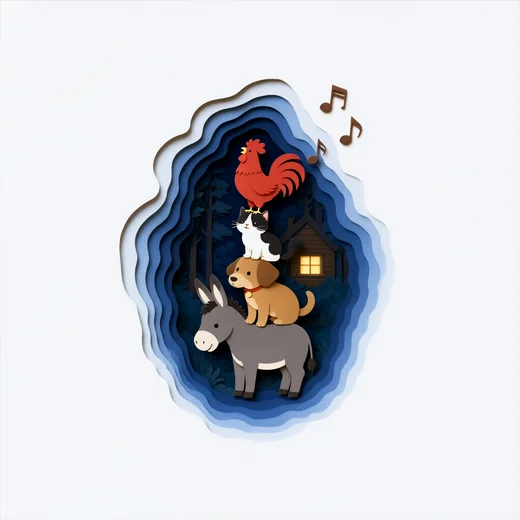
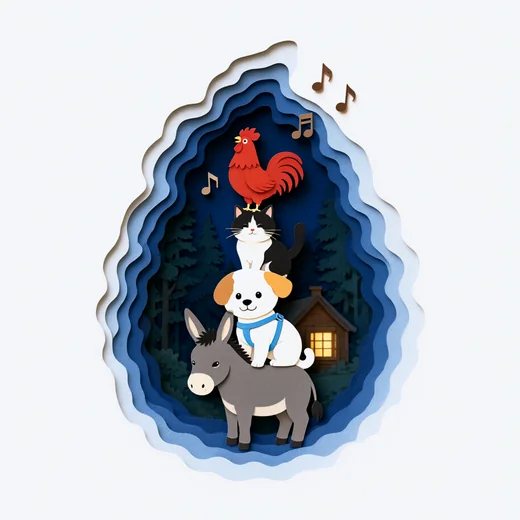
브레멘·토끼 달리기: 새 강아지(흰 털·파란 조끼) 그림 적용, 브레멘 표지 교체
Claude-Session: https://claude.ai/code/session_01TGgx6k6hUQMHacUcyCA6Jo

diff --git a/tales/bremen/bremen.js b/tales/bremen/bremen.js
@@ -25,7 +25,7 @@
      - cut_ghost: 다시 뽑은 그림(도둑 셋이 생각 구름 속 귀신·콕 찌르는 이·거인·재판관을 가리킴). 안 나오면 코드 컷(네 칸) */
   const ART = {
     donkey: 'v3w/br_donkey.webp', donkey_sing: 'v3w/br_donkey_sing.webp', donkey_sleep: 'v3w/br_donkey_sleep.webp',
-    dog_sing: 'v3w/br_dog_sing.webp', dog_tired: 'v3w/br_dog_tired.webp', cat_sing: 'v3w/br_cat_sing.webp', cat_sad: 'v3w/br_cat_sad.webp',
+    dog_sing: 'v3w/br_dog_sing3.webp', dog_tired: 'v3w/br_dog_tired3.webp', cat_sing: 'v3w/br_cat_sing.webp', cat_sad: 'v3w/br_cat_sad.webp',
     rooster: 'v3w/br_rooster.webp', rooster_sing: 'v3w/br_rooster_sing.webp', miller: 'v3w/br_miller.webp', owl: 'v3w/br_owl.webp',
     robber_red: 'v3w/br_robber_red.webp', robber_green: 'v3w/br_robber_green.webp', robber_brown: 'v3w/br_robber_brown.webp',
     cut_crash: 'v3w/br_cut_crash.webp', cut_monster: 'v3w/br_cut_monster.webp', cut_ghost: 'v3w/br_cut_ghost3.webp',
@@ -43,7 +43,7 @@
   /* 자세 그림: [키(배율 1), 발끝 가운데(폭 비율), 폭/높이]. 한 동물의 자세끼리는 같은 원본 배율(잠자는 당나귀만 머리 크기에 맞춰 줄임) */
   const SPR = {
     donkey: [210, .585, .888], donkey_sing: [231, .526, .9352], donkey_sleep: [160, .633, 1.3725],
-    dog_sing: [100, .576, 1.0808], dog_tired: [113, .614, 1.1069], cat_sing: [89, .528, 1.2261], cat_sad: [85, .553, 1.1864],
+    dog_sing: [113, .542, .9042], dog_tired: [130, .41, .924], cat_sing: [89, .528, 1.2261], cat_sad: [85, .553, 1.1864],
     rooster: [106, .389, .9154], rooster_sing: [96, .421, 1.0167], miller: [190, .486, .4591], owl: [80, .495, .84],
     robber_red: [170, .51, .8475], robber_green: [174, .49, .8073], robber_brown: [185, .504, .7409],
   };

diff --git a/tales/rabbit/rabbit.js b/tales/rabbit/rabbit.js
@@ -34,7 +34,7 @@
     turtle_walk: 'v3w/rab_turtle_walk.webp', turtle_swim: 'v3w/rab_turtle_swim.webp', turtle_medal: 'v3w/rab_turtle_medal.webp',
     raccoon: 'v3w/rab_raccoon.webp', owl_post: 'v3w/rab_owl_post.webp',
     aud_duck: 'v3w/rab_aud_duck.webp', aud_cow: 'v3w/rab_aud_cow.webp', aud_pig: 'v3w/rab_aud_pig.webp', aud_rooster: 'v3w/rab_aud_rooster.webp',
-    aud_sheep: 'v3w/rab_aud_sheep.webp', aud_dog: 'v3w/rab_aud_dog.webp', aud_cat: 'v3w/rab_aud_cat.webp', aud_owl: 'v3w/rab_owl_post.webp',
+    aud_sheep: 'v3w/rab_aud_sheep.webp', aud_dog: 'v3w/rab_aud_dog3.webp', aud_cat: 'v3w/rab_aud_cat.webp', aud_owl: 'v3w/rab_owl_post.webp',
     carrot_trophy: 'v3w/rab_carrot_trophy.webp', medal: 'v3w/rab_medal.webp',
     // 경주 막대·지도 말: 크림색 동그란 종이 속 토끼(머리·목도리)·거북이 — 둘이 한 짝 (토끼 원판은 거북이 원판 색·크기에 맞춰 PIL로 만듦)
     icon_rabbit: 'v3w/rab_icon_rabbit.webp', icon_turtle: 'v3w/rab_icon_turtle.webp',
